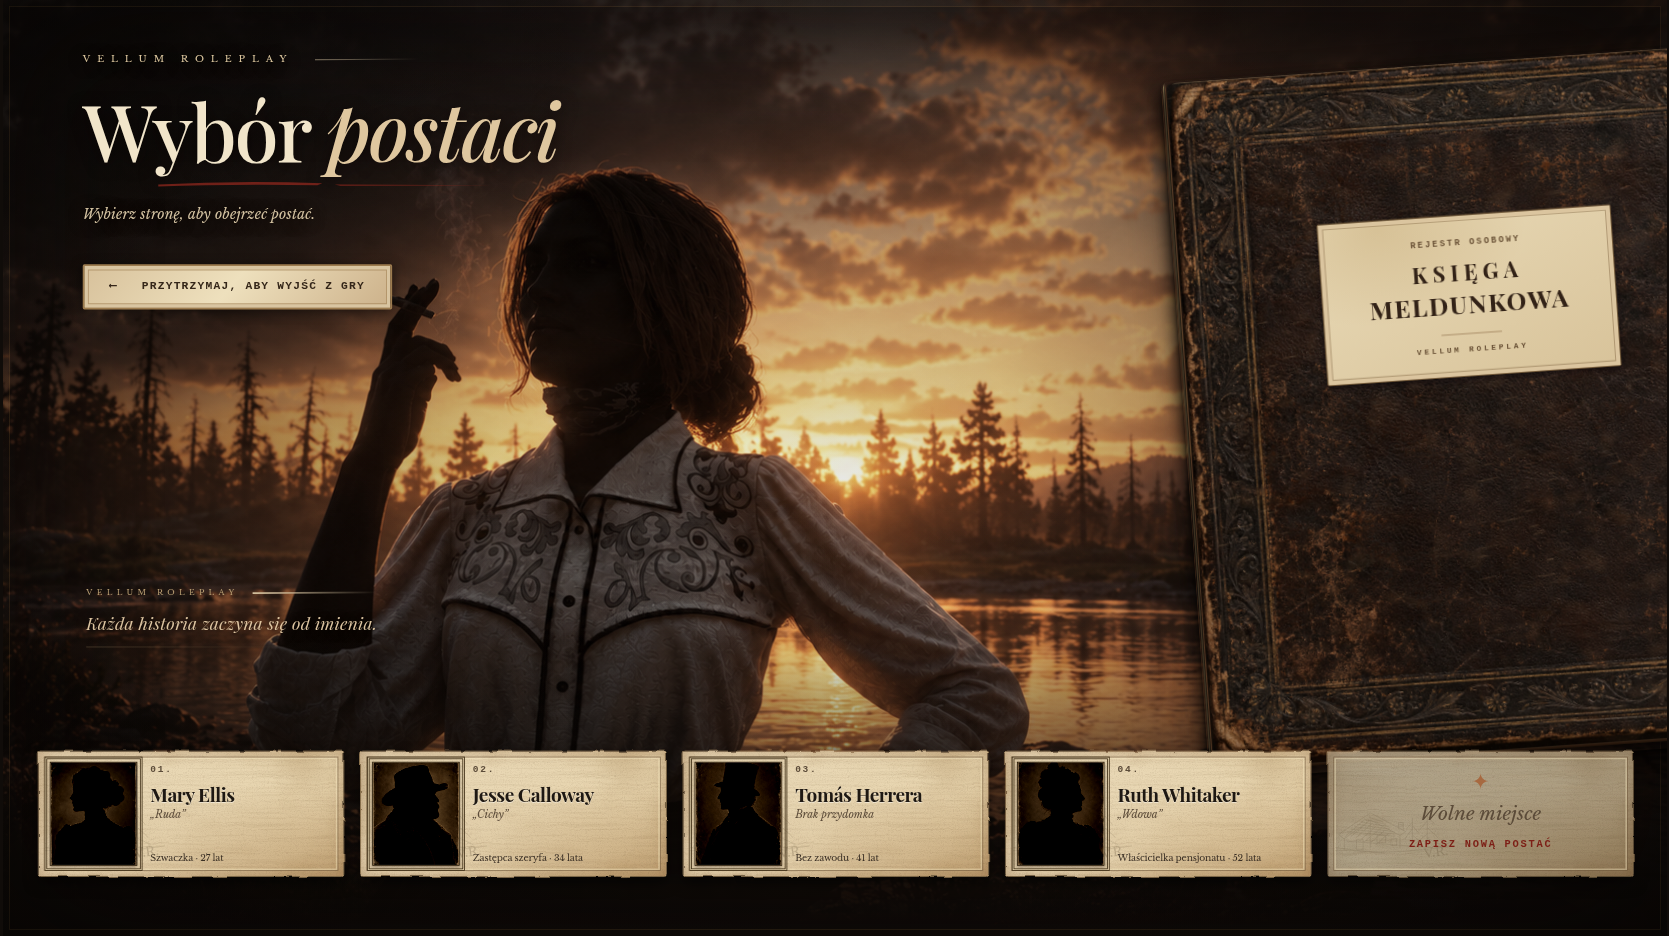
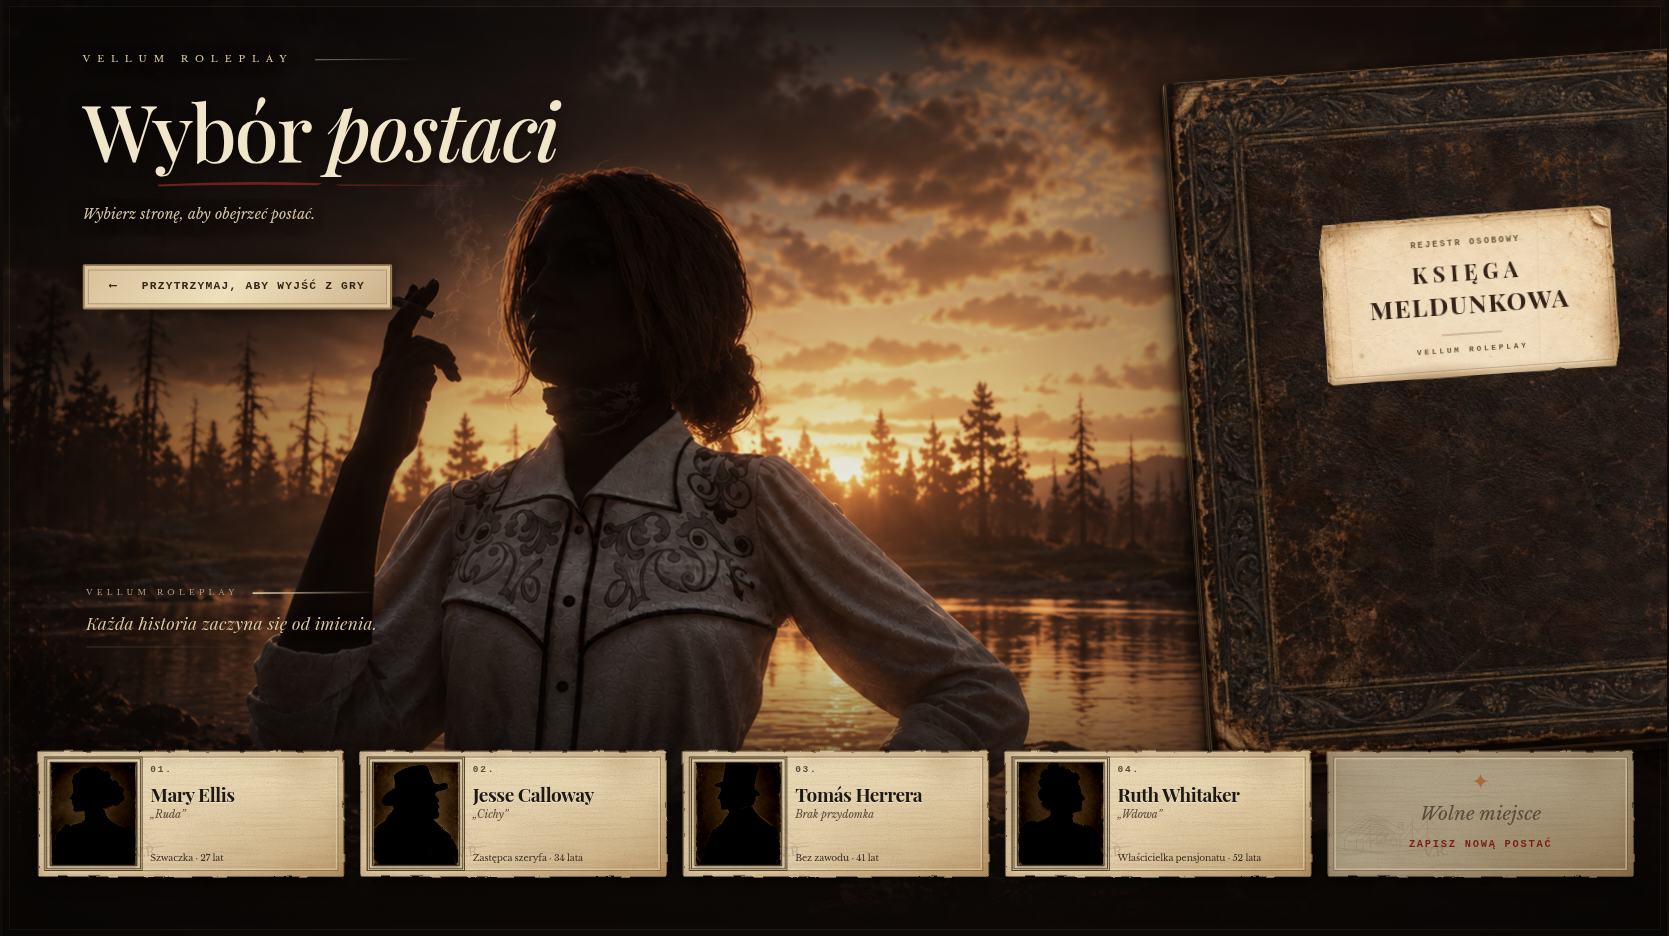
Weather ledger label and unify heading color

Changed region(s): [[0.7789, 0.2169, 0.997, 0.4338], [0.1869, 0.1239, 0.3427, 0.1859]]

diff --git a/docs/t2/vellum.css b/docs/t2/vellum.css
@@ -123,8 +123,12 @@ html,body{margin:0;width:100%;height:100%;overflow:hidden;background:#100c09}
 @font-face{font-family:Vellum Display;src:url('../assets/fonts/PlayfairDisplay-Italic.ttf') format('truetype');font-weight:400 900;font-style:italic;font-display:swap}
 .t4k .lg-cv.f{filter:none;background-image:linear-gradient(#100a051e,#100a053b),url('../assets/book-leather.png')}
 .t4k .lg-cv.f .ledger-title{filter:none;top:174px;width:340px;margin-left:-170px;padding:25px 22px 23px;transform:none;color:#302116;isolation:isolate}
-.t4k .ledger-title:before{filter:none;border:1px solid #826641;border-radius:2px;background:radial-gradient(ellipse at 20% 5%,#a6804140,transparent 45%),linear-gradient(155deg,#e9dab7,#d8c39a);box-shadow:inset 0 0 0 5px #dbc59f,inset 0 0 0 6px #896e4b99,0 3px 7px #0a050999}
-.t4k .ledger-title:after{display:none}
+.t4k .ledger-title:before{filter:none;border:1px solid #826641;border-radius:2px;
+background:radial-gradient(ellipse 60px 24px at 3% 3%,#76492369,transparent),radial-gradient(ellipse 32px 65px at 100% 80%,#80512655,transparent),radial-gradient(ellipse 90px 19px at 35% 100%,#8b592b55,transparent),radial-gradient(circle at 86% 16%,#8a582b4a 0 1px,transparent 3px),radial-gradient(circle at 12% 83%,#88572b3b 0 2px,transparent 4px),url('../assets/book-paper.png') center top/100% auto no-repeat,#dfcba3;
+clip-path:polygon(2% 1%,16% 0,28% .8%,42% 0,60% .5%,77% 0,96% .5%,100% 3%,99.5% 18%,100% 36%,99% 38%,100% 41%,99.7% 63%,100% 85%,98% 100%,81% 99.3%,79% 98.4%,76% 100%,56% 99.5%,36% 100%,17% 99.2%,2% 100%,0 97%,.5% 77%,0 61%,.8% 40%,0 20%);
+box-shadow:inset 0 0 13px #74451f70,inset 0 0 0 5px #c7ab7d40}
+.t4k .ledger-title:after{content:'';display:block;position:absolute;inset:8px;z-index:-1;pointer-events:none;border:1px solid #8d704966;border-radius:1px;
+background:linear-gradient(165deg,transparent 21%,#79562e18 21.4%,#fff4d32b 21.8%,transparent 22.3%),linear-gradient(93deg,transparent 74%,#8d61301a 74.4%,#fff5dc38 74.8%,transparent 75.2%);box-shadow:0 0 0 2px #ead8b130}
 .t4k .ledger-title b{font-family:var(--display);font-size:29px;font-weight:700;line-height:1.28;letter-spacing:1.8px;text-transform:uppercase;color:#322217;text-shadow:none}
 .t4k .ledger-title b:first-of-type{font-size:25px;letter-spacing:6px;margin:10px 0 3px}
 .ledger-eyebrow,.ledger-imprint{display:block;font-family:var(--type);font-size:10px;font-weight:700;letter-spacing:2.5px;text-transform:uppercase;color:#685035}
@@ -135,7 +139,7 @@ html,body{margin:0;width:100%;height:100%;overflow:hidden;background:#100c09}
 .t4k .vellum-heading .brand{font-family:var(--body);font-size:11px;letter-spacing:8px;font-weight:400;color:#ddc79f;gap:25px}
 .t4k .vellum-heading .brand span{height:1px;opacity:.6;max-width:120px}
 .t4k .vellum-heading h1{font-size:92px;line-height:1.15;letter-spacing:-2.4px;font-weight:500;margin-top:19px;color:#f1e5ca}
-.t4k .vellum-heading h1 em{font-weight:500;font-style:italic;color:#dfc79f}
+.t4k .vellum-heading h1 em{font-weight:500;font-style:italic;color:inherit}
 .t4k .title-rule{width:560px;height:10px;margin-top:7px;opacity:.75}
 .t4k .heading-hint{margin-top:17px;font-size:16px;letter-spacing:.2px;color:#d3c2a1}
 .t4k .vellum-signature .brand{font-family:var(--body);font-size:9px;font-weight:400;letter-spacing:5px;color:#b79d72}
